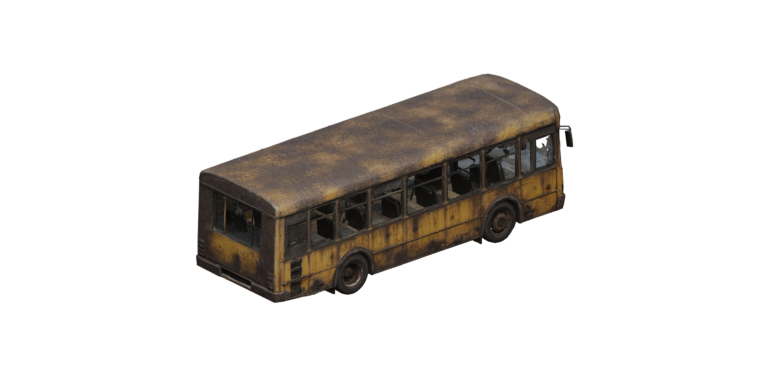
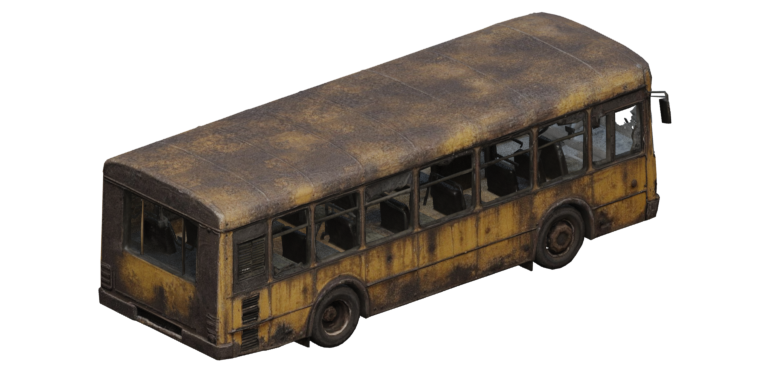
increase baked bus sprite scale

diff --git a/public/js/client-core.js b/public/js/client-core.js
@@ -4520,6 +4520,7 @@ function loadImage(src) {
 
 const playerSprites = Object.fromEntries(PLAYER_VARIANTS.map((v) => [v.id, loadImage(v.sprite)]));
 const TRIPO_MAP_PROP_ROOT = '/assets/map-props/tripo3d';
+const TRIPO_BUS_SPRITE_VERSION = '20260605bus1';
 const MAP_PROP_DIRECTIONAL_SPRITES = Object.freeze(Object.fromEntries([
   'barrier',
   'shopping_cart_barricade',
@@ -4567,8 +4568,8 @@ const sprites = {
   mapProps: {
     car_red: loadImage('/assets/map-props/car_red.png'),
     car_blue: loadImage('/assets/map-props/car_blue.png'),
-    bus_yellow: loadImage(`${TRIPO_MAP_PROP_ROOT}/bus_yellow.png`),
-    abandoned_bus: loadImage(`${TRIPO_MAP_PROP_ROOT}/abandoned_bus.png`),
+    bus_yellow: loadImage(`${TRIPO_MAP_PROP_ROOT}/bus_yellow.png?v=${TRIPO_BUS_SPRITE_VERSION}`),
+    abandoned_bus: loadImage(`${TRIPO_MAP_PROP_ROOT}/abandoned_bus.png?v=${TRIPO_BUS_SPRITE_VERSION}`),
     ambulance: loadImage(`${TRIPO_MAP_PROP_ROOT}/ambulance.png`),
     military_ambulance: loadImage(`${TRIPO_MAP_PROP_ROOT}/military_ambulance.png`),
     barrier: loadImage(`${TRIPO_MAP_PROP_ROOT}/barrier.png`),

diff --git a/public/play.html b/public/play.html
@@ -684,7 +684,7 @@
   <script src="/js/client-page-loader.js?v=20260509loaderfx5"></script>
   <script src="/js/cw-menu-react.js?v=20260505storyside1"></script>
   <script src="/js/client-i18n.js?v=20260509loaderi18n1"></script>
-  <script src="/js/client-core.js?v=20260605mapprops1"></script>
+  <script src="/js/client-core.js?v=20260605bus1"></script>
   <script src="/js/client-net-input.js?v=20260605mapprops1"></script>
   <script src="/js/client-menu-runs.js?v=20260506storylevelstatus1"></script>
   <script src="/js/client-death.js?v=20260506defeat1"></script>

diff --git a/scripts/ai3d/render_tripo_directional_map_props.py b/scripts/ai3d/render_tripo_directional_map_props.py
@@ -68,8 +68,8 @@ ASSETS = {
     "rusty_shopping_cart": prop_spec("rusty+shopping+cart+3d+model", 640, 384, 0.88, (-5.3, -6.2, 3.5)),
     "steampunk_reactor": prop_spec("steampunk+reactor+3d+model", 768, 512, 0.84, (-5.8, -6.6, 4.4)),
     "toxic_waste_barrels": prop_spec("toxic+waste+barrels+3d+model", 640, 512, 0.86),
-    "bus_yellow": prop_spec("abandoned+bus+3d+model", 768, 384, 0.5, (-6.0, -7.0, 4.2), False),
-    "abandoned_bus": prop_spec("abandoned+bus+3d+model", 768, 384, 0.5, (-6.0, -7.0, 4.2), False),
+    "bus_yellow": prop_spec("abandoned+bus+3d+model", 768, 384, 0.76, (-6.0, -7.0, 4.2), False),
+    "abandoned_bus": prop_spec("abandoned+bus+3d+model", 768, 384, 0.76, (-6.0, -7.0, 4.2), False),
     "ambulance": prop_spec("military+ambulance+3d+model", 640, 384, 0.52, (-5.5, -6.4, 3.7), False),
     "military_ambulance": prop_spec("military+ambulance+3d+model", 640, 384, 0.52, (-5.5, -6.4, 3.7), False),
     "futuristic_police_vehicle": prop_spec("futuristic+police+vehicle+3d+model", 640, 384, 0.54, (-5.5, -6.4, 3.7), False),
